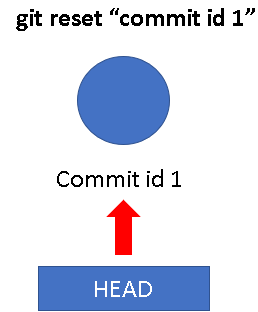
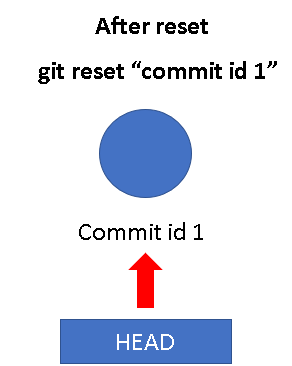
Asd

diff --git a/Class material/2- Git commit.md b/Class material/2- Git commit.md
@@ -66,7 +66,7 @@ On the commit-level, resetting is a way to move the tip of a branch to a differe
 </p>
 
 <p align="center">
-<img src="https://github.com/horaciosolis1991/Git-class-material/blob/main/res/after-reset.png" width="194" height="234">
+<img src="https://github.com/horaciosolis1991/Git-class-material/blob/main/res/after-reset.png" width="219" height="275">
 </p>
 
 
